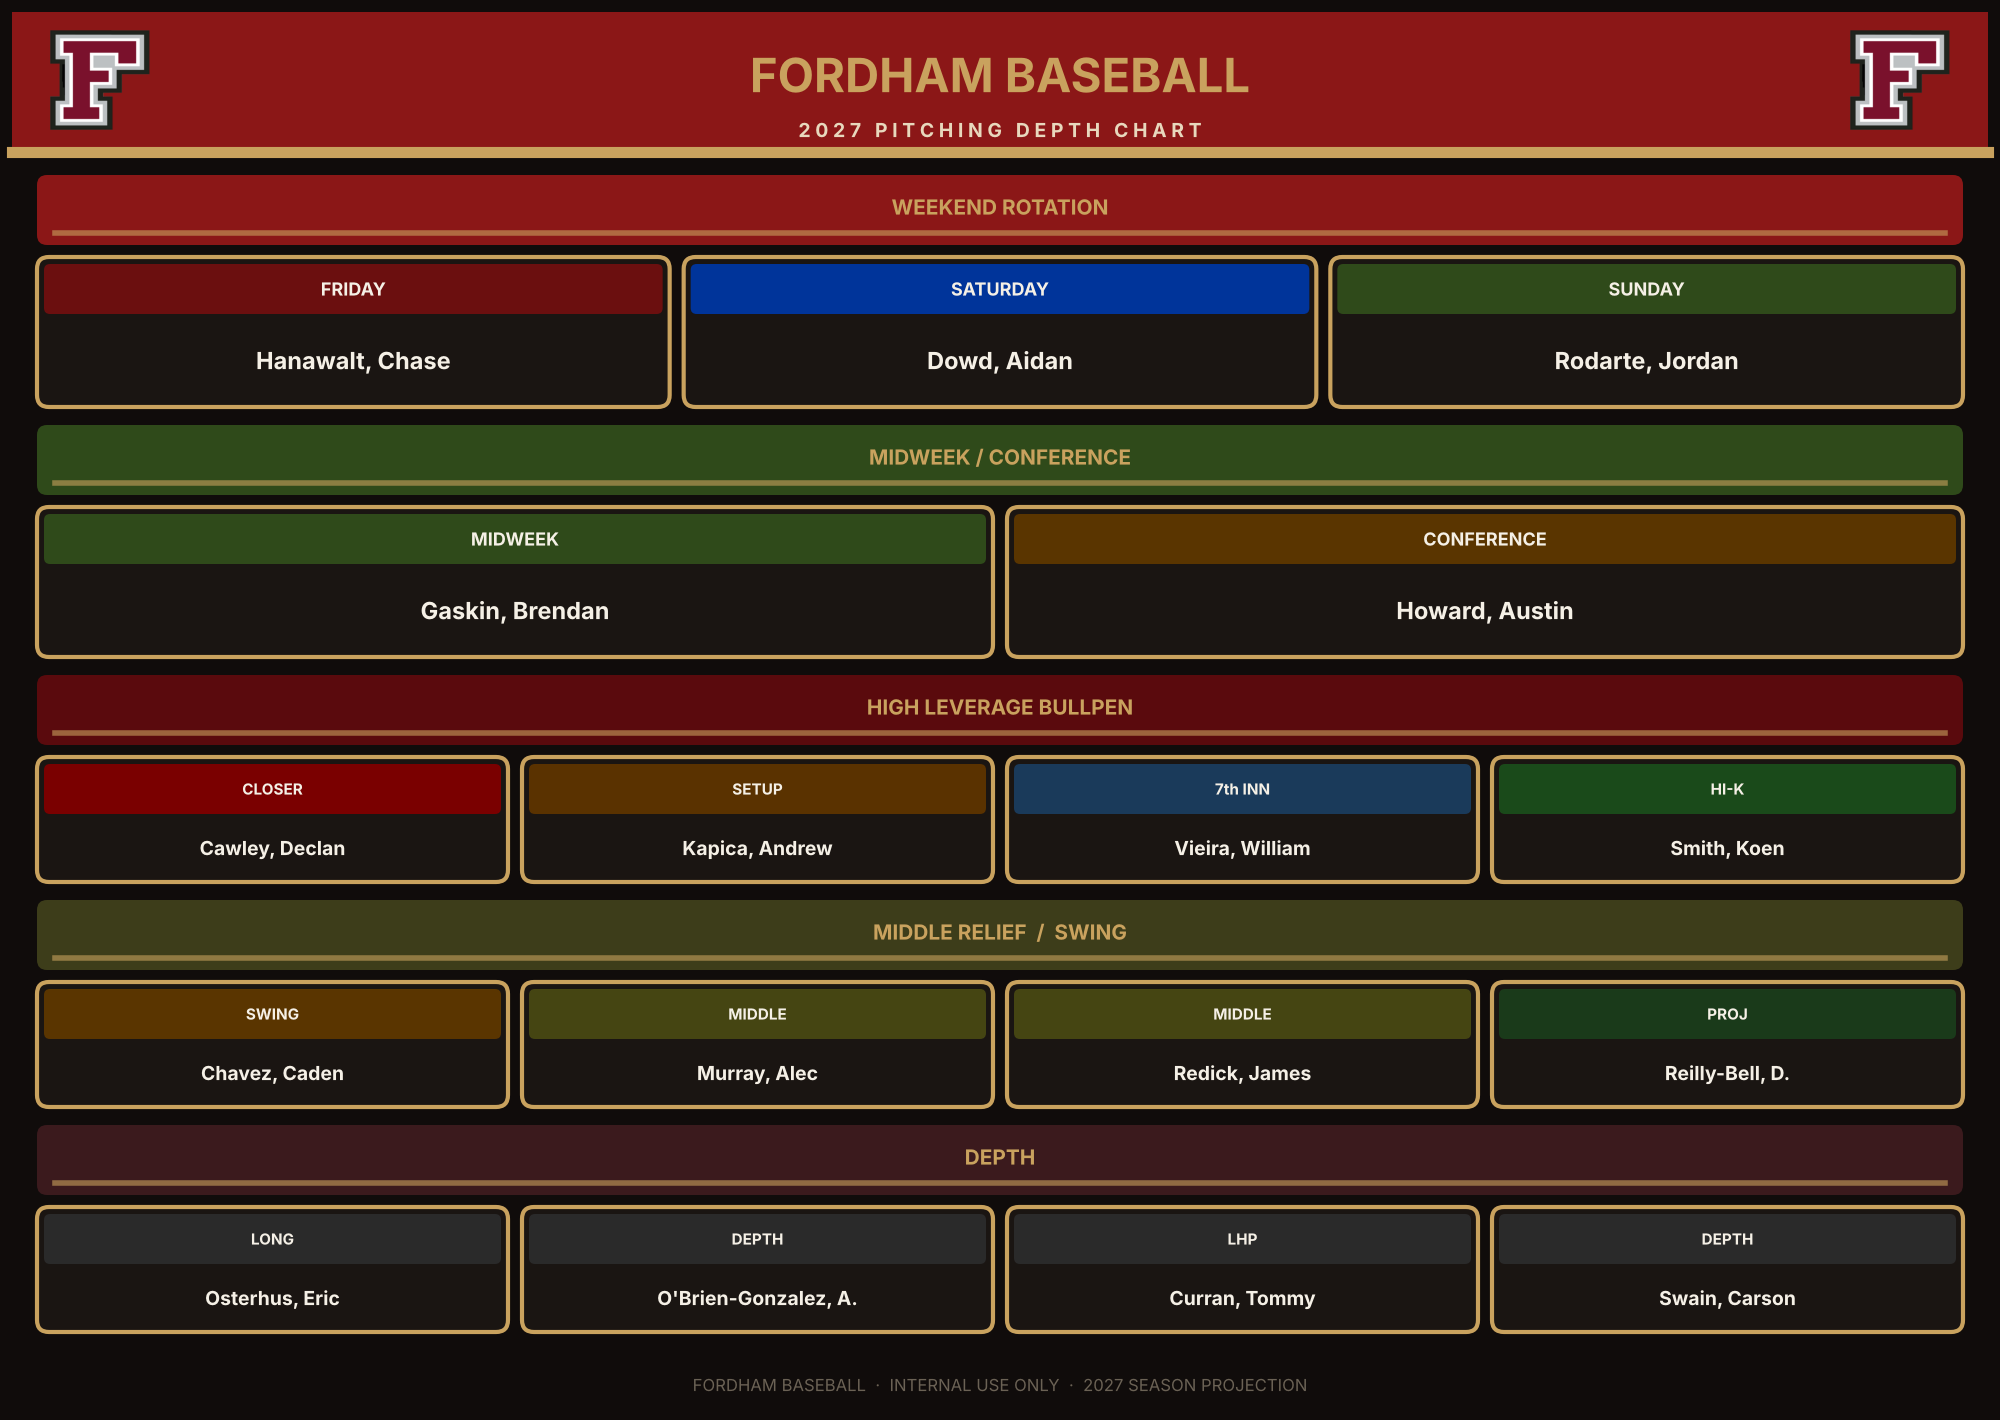
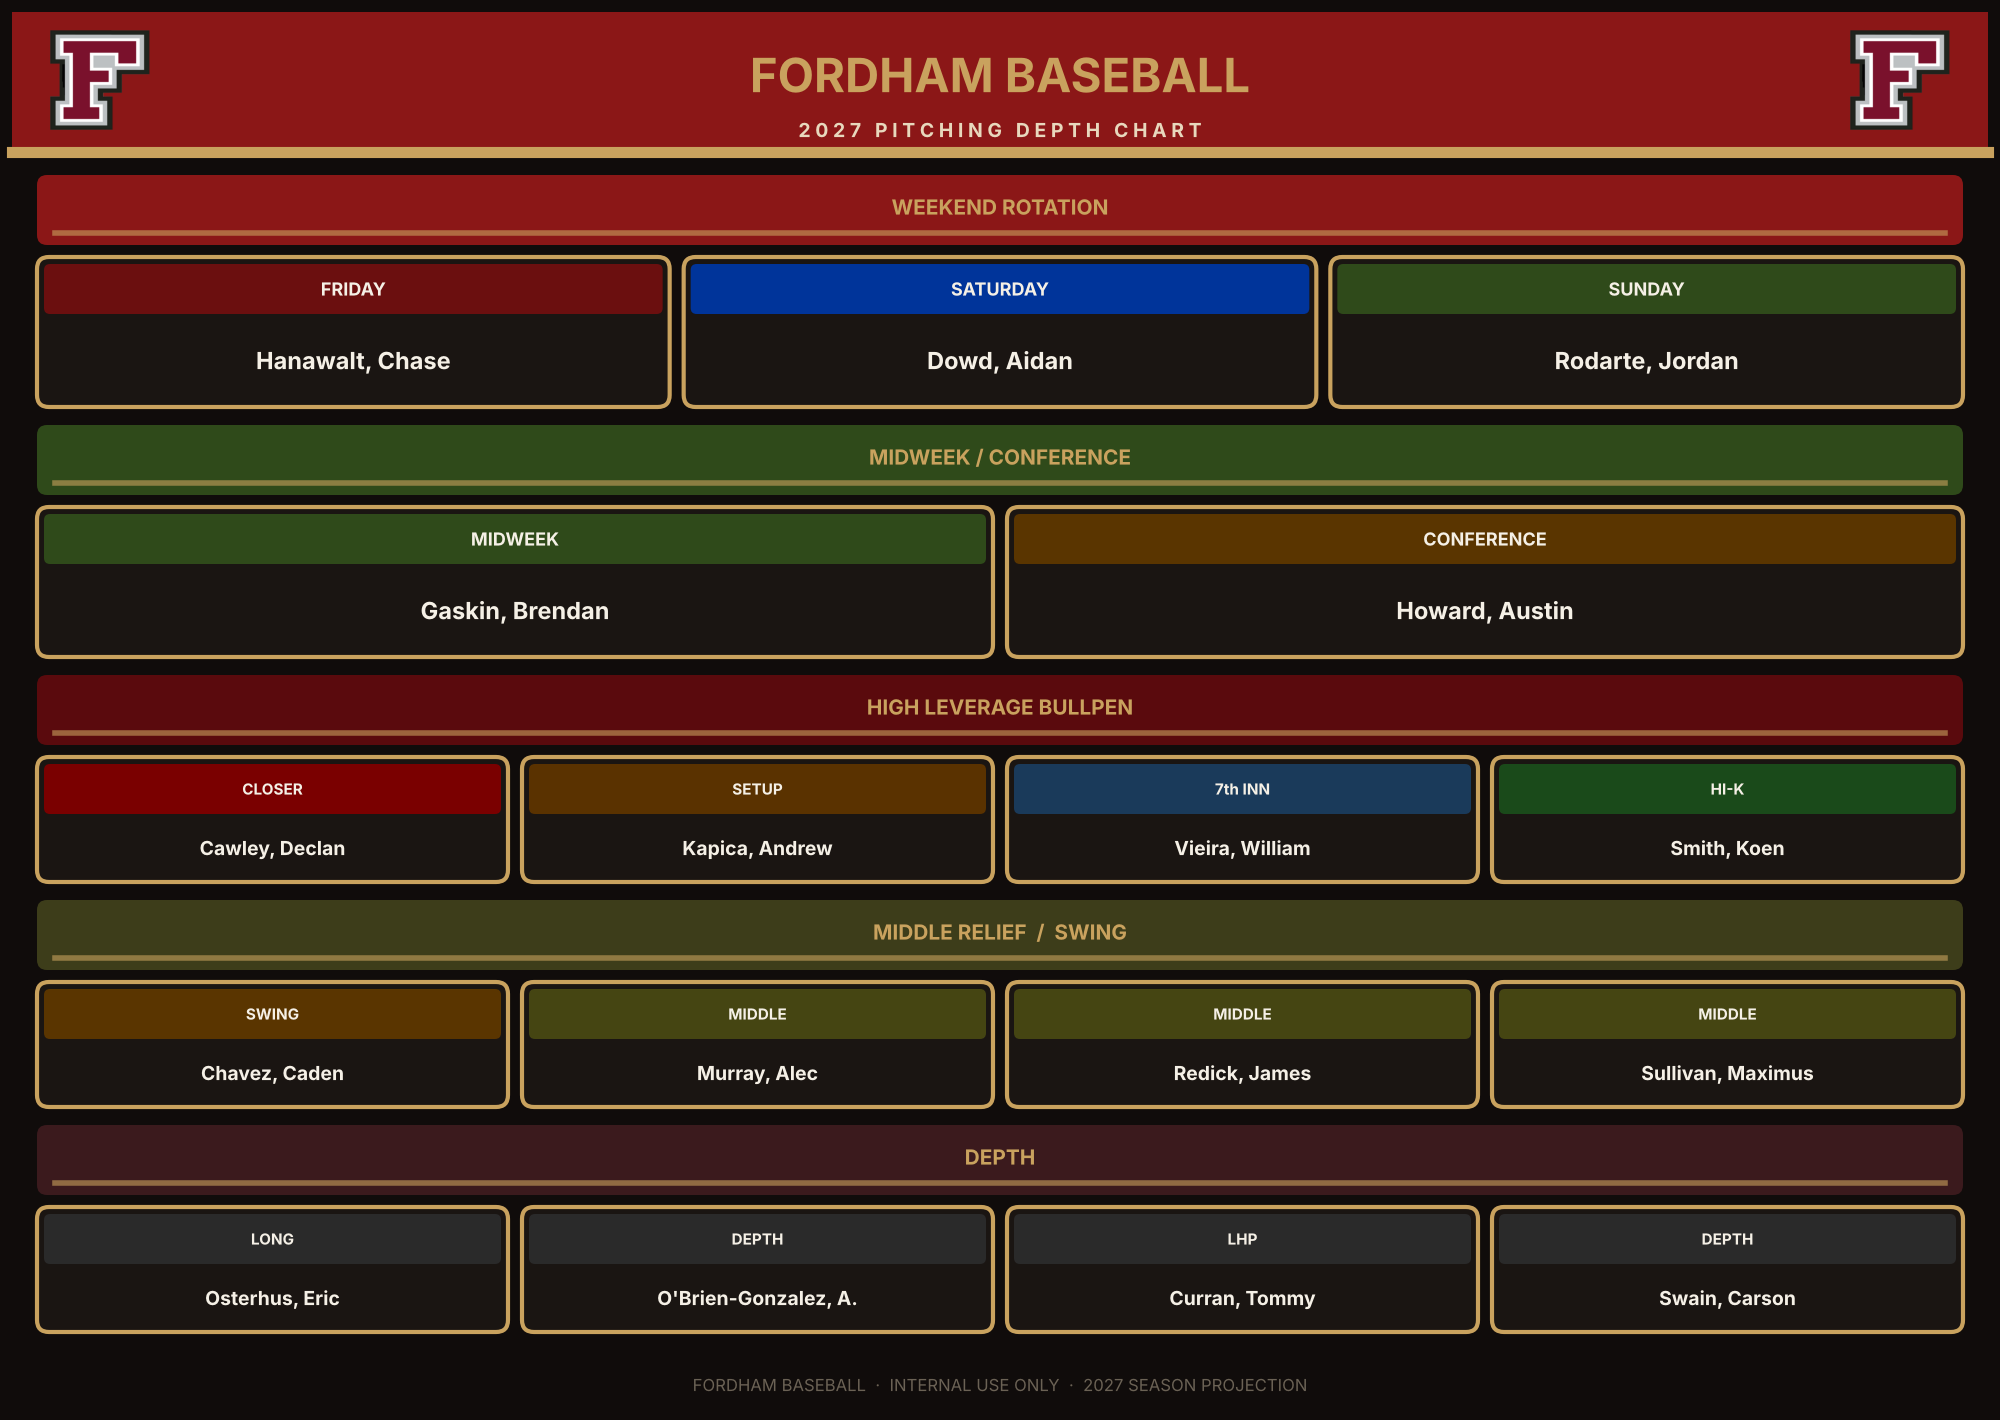
Pitching chart: Sullivan replaces Reilly-Bell
Claude-Session: https://claude.ai/code/session_01DzovqpcKxuXv9ZPZSgDio1

Changed region(s): [[0.744, 0.6817, 0.992, 0.7746]]

diff --git a/scripts/depth_chart_pitching_2027.py b/scripts/depth_chart_pitching_2027.py
@@ -45,7 +45,7 @@ SECTIONS = [
         ("SWING", "#5a3500", "Chavez, Caden"),
         ("MIDDLE", "#454512", "Murray, Alec"),
         ("MIDDLE", "#454512", "Redick, James"),
-        ("PROJ", "#1a3a1a", "Reilly-Bell, D."),
+        ("MIDDLE", "#454512", "Sullivan, Maximus"),
     ]),
     ("DEPTH", "#3b1a1d", 4, [
         ("LONG", "#2a2a2a", "Osterhus, Eric"),
